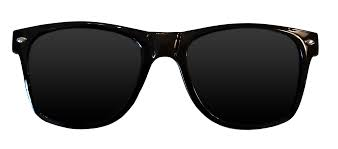
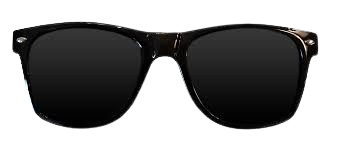
Add head-pose warning and tune glasses placement
- FaceKeypoints.isLookingStraight(): detects face turns using eye-width
  ratio (one eye < 70% the width of the other triggers warning)
- TryOnFragment: show/hide "Keep a straight face" banner on each frame
- fragment_tryon.xml: add tv_head_pose_warning banner view
- OverlayView: glasses width multiplier 2.2→3.1, fix inverted angle
  (left→right instead of right→left), fine-tune X/Y anchor offsets

diff --git a/app/src/main/kotlin/com/fyp/virtualtryon/pose/FaceKeypoints.kt b/app/src/main/kotlin/com/fyp/virtualtryon/pose/FaceKeypoints.kt
@@ -35,4 +35,37 @@ data class FaceKeypoints(val landmarks: List<NormalizedLandmark>) {
         landmarks.size >= 468 &&
         rightEyeOuter != null && leftEyeOuter != null &&
         rightEyeTop   != null && rightEyeBottom != null
+
+    /**
+     * Returns true when the face is roughly straight-on to the camera.
+     *
+     * Yaw  — nose tip x should sit ~halfway between the two outer eye corners.
+     * Pitch — nose tip y should sit ~55 % of the way from forehead (10) to chin (152).
+     * Thresholds are intentionally loose so the warning only fires on obvious tilts.
+     */
+    /**
+     * Returns false only when the face is clearly turned left or right.
+     *
+     * Strategy: compare the apparent widths of both eyes.
+     * When looking straight, both eyes appear roughly the same width.
+     * When the face turns, the far eye becomes much narrower than the near eye.
+     * This approach is robust to camera mirroring and individual face proportions.
+     *
+     * Warning fires only when one eye is less than 45 % the width of the other
+     * — a clear, visible turn of ~30°+.
+     */
+    fun isLookingStraight(): Boolean {
+        val rOuter = landmarks.getOrNull(33)  ?: return true  // right eye outer corner
+        val rInner = landmarks.getOrNull(133) ?: return true  // right eye inner corner
+        val lOuter = landmarks.getOrNull(362) ?: return true  // left  eye outer corner
+        val lInner = landmarks.getOrNull(263) ?: return true  // left  eye inner corner
+
+        val rWidth = kotlin.math.abs(rOuter.x() - rInner.x())
+        val lWidth = kotlin.math.abs(lOuter.x() - lInner.x())
+
+        if (rWidth <= 0f || lWidth <= 0f) return true
+        val ratio = minOf(rWidth, lWidth) / maxOf(rWidth, lWidth)
+        // ratio ≈ 1.0 → straight; ratio < 0.70 → one eye noticeably narrower → turned
+        return ratio >= 0.70f
+    }
 }

diff --git a/app/src/main/kotlin/com/fyp/virtualtryon/ui/tryon/OverlayView.kt b/app/src/main/kotlin/com/fyp/virtualtryon/ui/tryon/OverlayView.kt
@@ -307,15 +307,15 @@ class OverlayView @JvmOverloads constructor(
         val scaleX = targetWidth / bitmap.width
         val scaleY = targetHeight / bitmap.height
 
-        // Shift the anchor UP by 15% of frame height so lenses sit over the eye sockets,
-        // not just centred on the iris line.
-        val yAnchor = anchorY - targetHeight * 0.15f
+        // Fine-tune placement: slight rightward nudge + modest upward lift
+        val xAnchor = anchorX + targetWidth * 0.01f
+        val yAnchor = anchorY - targetHeight * 0.05f
 
         val matrix = Matrix().apply {
             postScale(scaleX, scaleY)
             postTranslate(-(bitmap.width * scaleX) / 2f, -(bitmap.height * scaleY) / 2f)
             postRotate(angleDeg)
-            postTranslate(anchorX, yAnchor)
+            postTranslate(xAnchor, yAnchor)
         }
         canvas.drawBitmap(bitmap, matrix, garmentPaint)
     }

diff --git a/app/src/main/kotlin/com/fyp/virtualtryon/ui/tryon/TryOnFragment.kt b/app/src/main/kotlin/com/fyp/virtualtryon/ui/tryon/TryOnFragment.kt
@@ -136,6 +136,8 @@ class TryOnFragment : Fragment() {
 
         viewModel.currentFaceKeypoints.observe(viewLifecycleOwner) { fk ->
             binding.overlayView.updateFaceKeypoints(fk)
+            val straight = fk?.isLookingStraight() ?: true
+            binding.tvHeadPoseWarning.visibility = if (straight) View.GONE else View.VISIBLE
         }
     }
 
